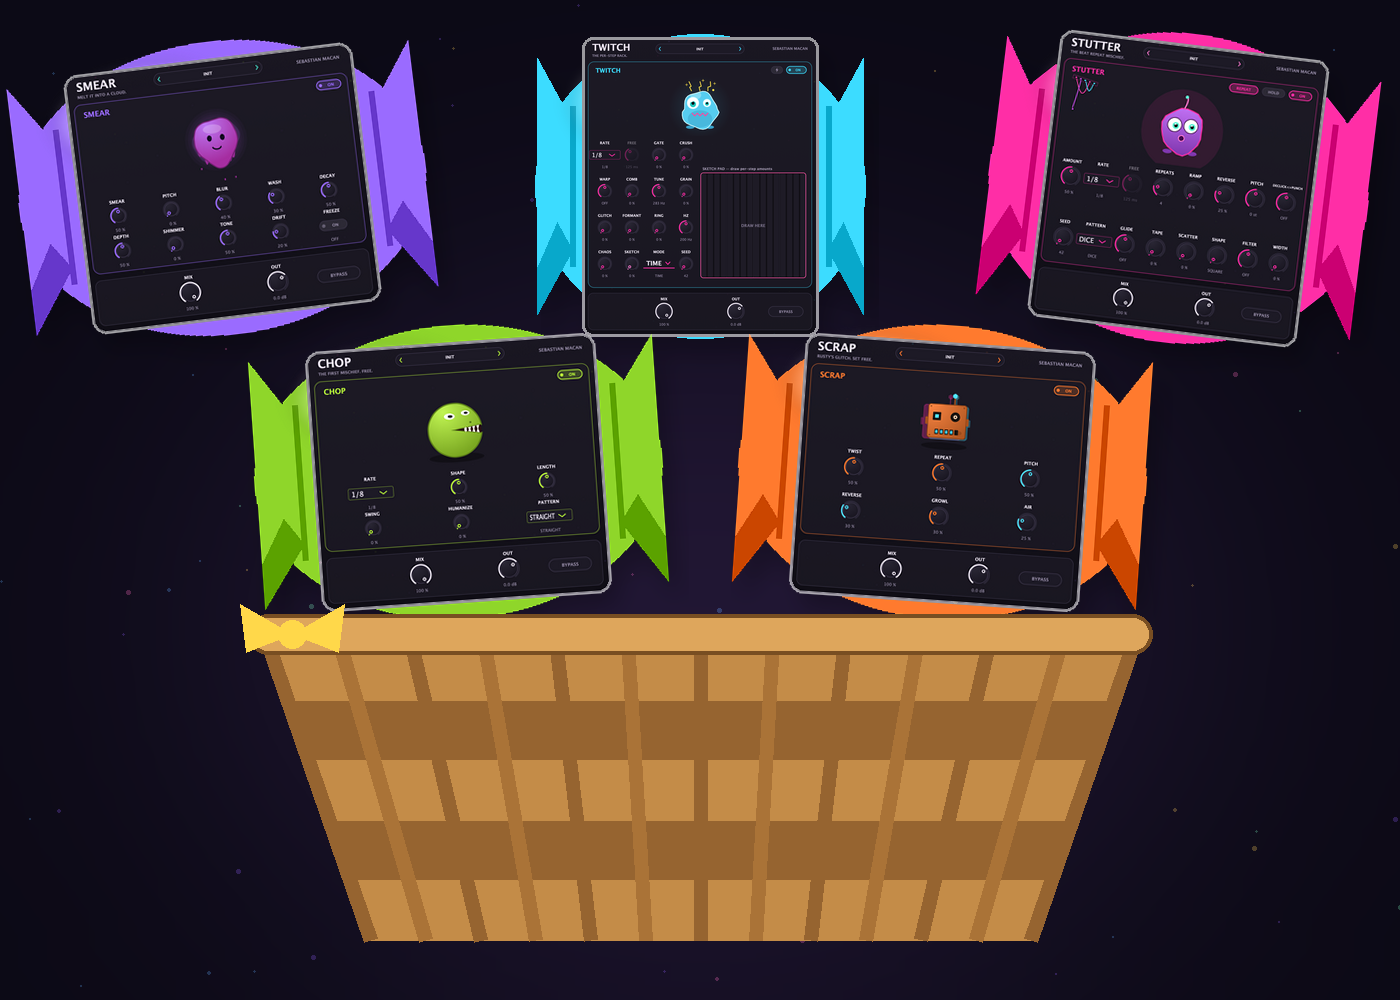
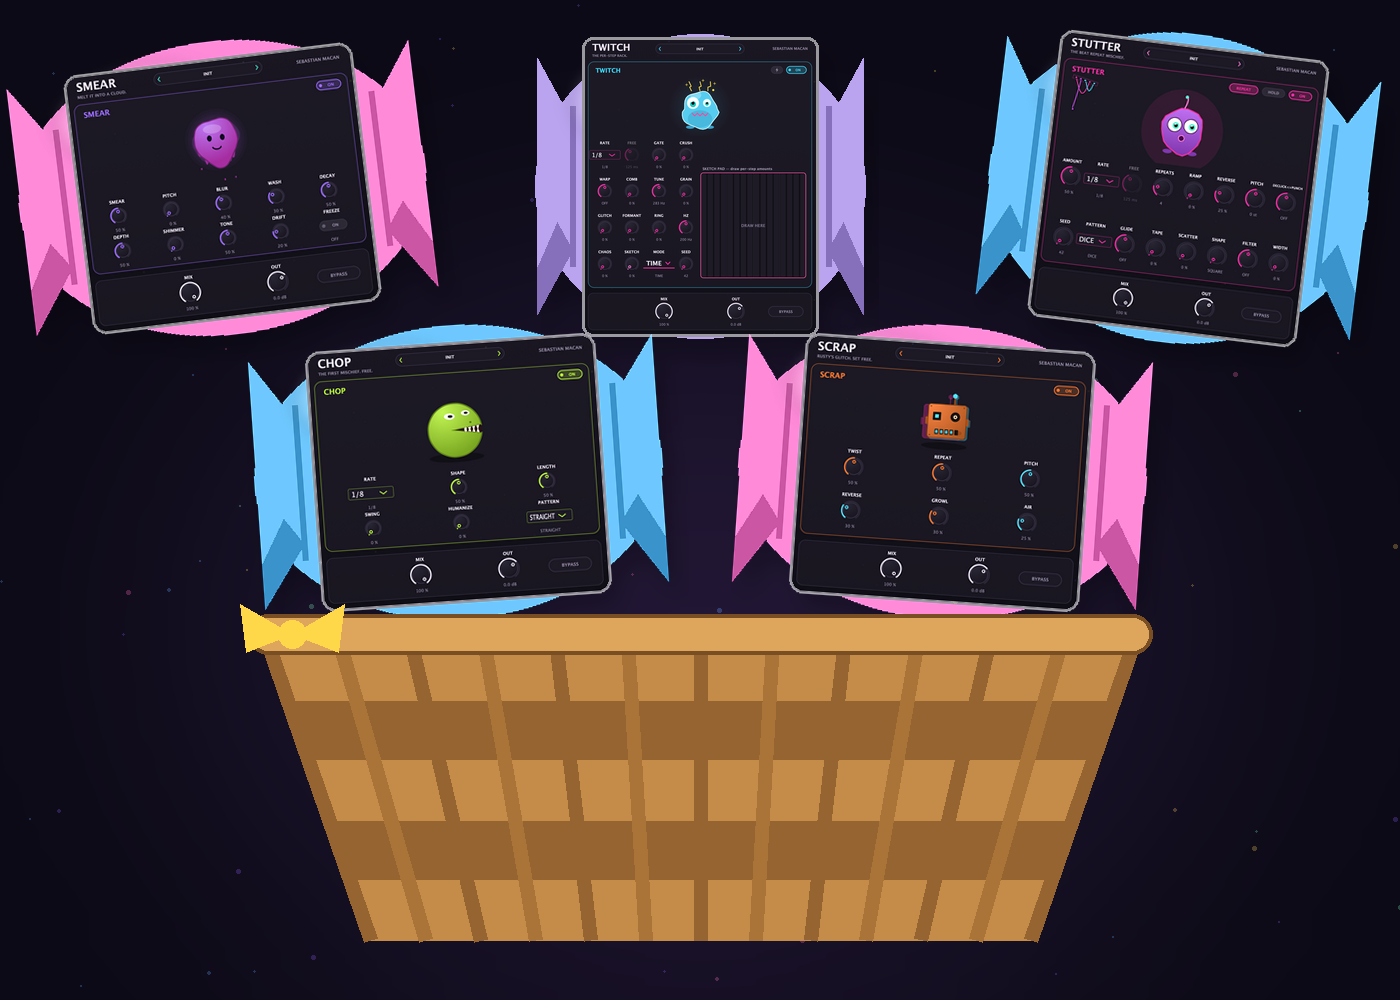
Gremlin Basket: candy wrappers recoloured to Cotton Candy (pink, lilac, baby blue)

diff --git a/basket-gremlin.html b/basket-gremlin.html
@@ -91,7 +91,7 @@
     <div class="kind">Candy Basket</div>
     <h1>GREMLIN BASKET</h1>
     <p class="tag">Five little troublemakers who will not leave your sound alone. Do not feed them after midnight.</p>
-    <img class="bimg" src="img/bundles/gremlin_bundle.png?v=5" alt="GREMLIN BASKET basket art">
+    <img class="bimg" src="img/bundles/gremlin_bundle.png?v=6" alt="GREMLIN BASKET basket art">
     <div class="pricebar"><span class="big">$35</span></div>
     <div class="meta">5 plugins · VST3 + AU · macOS + Windows</div>
     <div class="cta" style="margin-top:22px;"><span class="dl buy" role="button" tabindex="0" data-cart-buy="gremlinbasket">Buy Gremlin Basket &middot; $35</span><div class="cartrow" style="justify-content:center;"><span class="cartbtn add" role="button" tabindex="0" data-cart-add="gremlinbasket">Add to Cart</span><span class="cartbtn buy" role="button" tabindex="0" data-cart-buy="gremlinbasket">Buy Now</span></div></div>

diff --git a/index.html b/index.html
@@ -753,7 +753,7 @@
       </div>
     </a>
     <a class="bundle gremlin-b" href="basket-gremlin.html">
-      <img src="img/bundles/gremlin_bundle.png?v=5" alt="Gremlin Basket: Smear, Stutter, Twitch, Chop and Scrap as wrapped candy in a basket" loading="lazy">
+      <img src="img/bundles/gremlin_bundle.png?v=6" alt="Gremlin Basket: Smear, Stutter, Twitch, Chop and Scrap as wrapped candy in a basket" loading="lazy">
       <div class="binner">
         <h3>GREMLIN BASKET</h3>
         <p class="desc">Smear, Stutter, Twitch, Chop and Scrap. Five little troublemakers who will not leave your sound alone. Do not feed them after midnight.</p>
